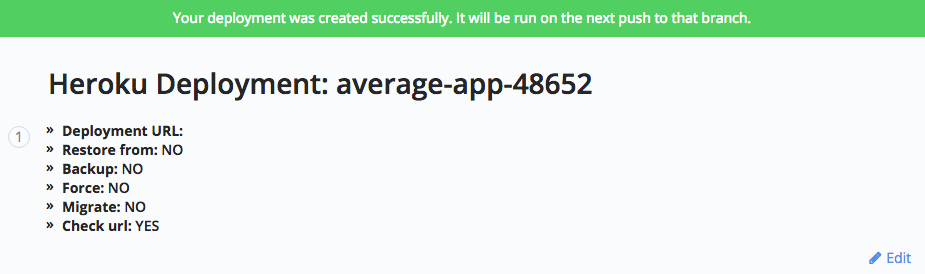
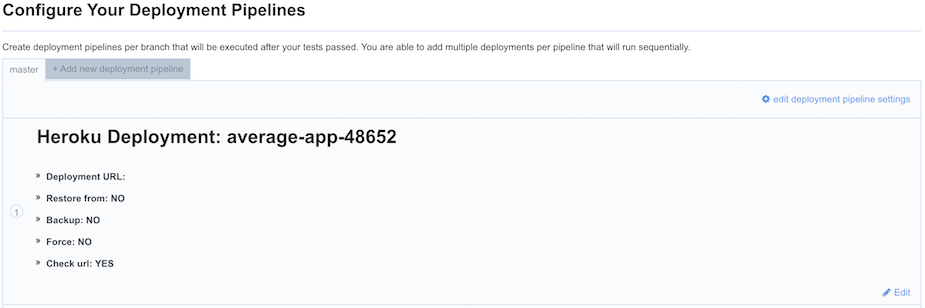
Update basic heroku deployment documentation (#900)

diff --git a/_basic/continuous-deployment/deployment-to-heroku.md b/_basic/continuous-deployment/deployment-to-heroku.md
@@ -88,16 +88,8 @@ This causes git to disable some checks and can cause the remote repository to lo
 
 See [git push -f](https://git-scm.com/docs/git-push) for more info.
 
-#### Run Migrations (Ruby on Rails only)
-You can specify to run the migration during the Heroku deployment. If you want to run your migration after the deployment, you can add a [custom script]({{ site.baseurl }}{% link _basic/continuous-deployment/deployment-with-custom-scripts.md %}) after the Heroku deployment and run the migration. If you are not using Rails you will need to use a custom script to run the correct migration command for your framework.
-
-**Example**:
-
-```shell
-heroku run --exit-code --app ${HEROKU_APPLICATION_NAME} -- bundle exec rake db:migrate
-```
-
-![Heroku Migration After Deploy]({{ site.baseurl }}/images/continuous-deployment/heroku-migration-after-deploy.png)
+#### Post-deploy Command
+You can specify a command to run post-deployment. The dynos will be restarted after running. This can be useful for running migrations or other commands that need to be run on each deploy.
 
 #### Check app URL
 This will enable your build to check the URL of your application to make sure that it is up.
